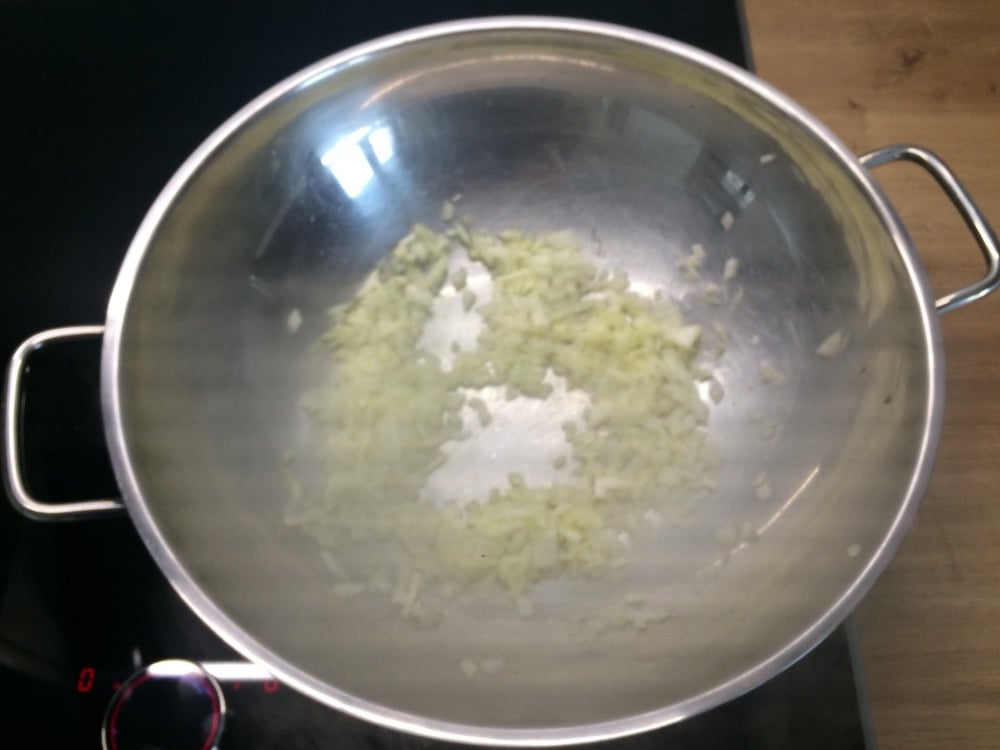
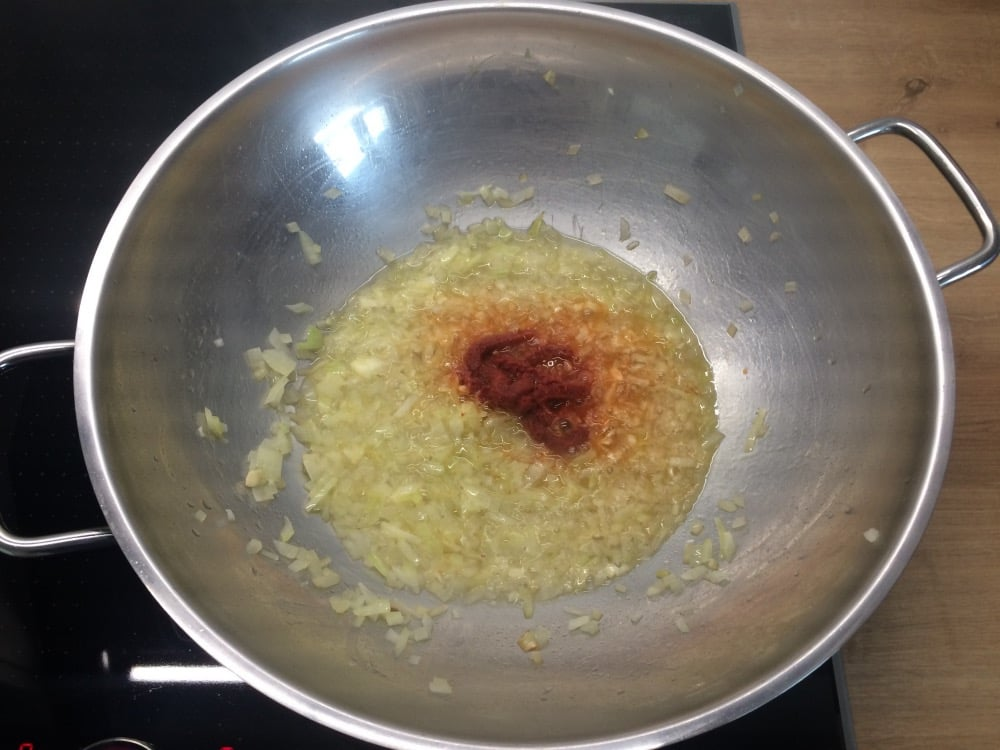
wrote recipe

diff --git a/src/content/recipes/one-pot-pasta-mit-leckerer-tomatensauce.ts b/src/content/recipes/one-pot-pasta-mit-leckerer-tomatensauce.ts
@@ -24,12 +24,15 @@ const ingredients: (RecipeIngredientGroup|RecipeIngredient)[] = [
     amount: 1,
     unit: INGREDIENT_UNITS.stueck,
     ingredient: INGREDIENTS.zwiebel,
+    preparation: INGREDIENT_PREPARATIONS.gewuerfelt,
   },
   {
     isGroup: false,
     amount: 2,
     unit: INGREDIENT_UNITS.stueck,
     ingredient: INGREDIENTS.knoblauchzehe,
+    preparation: INGREDIENT_PREPARATIONS.gewuerfelt,
+    description: "(optional)",
   },
   {
     isGroup: false,
@@ -39,17 +42,123 @@ const ingredients: (RecipeIngredientGroup|RecipeIngredient)[] = [
   },
   {
     isGroup: false,
-    amount: 10,
+    amount: 20,
     unit: INGREDIENT_UNITS.stueck,
     ingredient: INGREDIENTS.kirschtomaten,
     preparation: INGREDIENT_PREPARATIONS.halbiert,
+    description: "(ca. 150 g)",
   },
   {
     isGroup: false,
-    amount: 1.5,
-    unit: INGREDIENT_UNITS.liter,
+    amount: 10,
+    unit: INGREDIENT_UNITS.stueck,
+    ingredient: INGREDIENTS.champignons,
+    preparation: INGREDIENT_PREPARATIONS.geviertelt,
+  },
+  {
+    isGroup: false,
+    amount: 1,
+    unit: INGREDIENT_UNITS.stueck,
+    ingredient: INGREDIENTS.paprika,
+    preparation: INGREDIENT_PREPARATIONS.gewuerfelt,
+  },
+  {
+    isGroup: false,
+    amount: 0.5,
+    unit: INGREDIENT_UNITS.stueck,
+    ingredient: INGREDIENTS.zucchini,
+    preparation: INGREDIENT_PREPARATIONS.gewuerfelt,
+  },
+  {
+    isGroup: false,
+    amount: 2,
+    unit: INGREDIENT_UNITS.el,
+    ingredient: INGREDIENTS.olivenoel,
+    description: "(zum Anbraten)",
+  },
+  {
+    isGroup: false,
+    amount: 50,
+    unit: INGREDIENT_UNITS.ml,
+    ingredient: INGREDIENTS.weisswein,
+    description: "(optional)",
+  },
+  {
+    isGroup: false,
+    amount: 1,
+    unit: INGREDIENT_UNITS.el,
+    ingredient: INGREDIENTS.tomatenmark,
+  },
+  {
+    isGroup: false,
+    amount: 800,
+    unit: INGREDIENT_UNITS.milliliter,
     ingredient: INGREDIENTS.wasser,
   },
+  {
+    isGroup: false,
+    amount: 1,
+    unit: INGREDIENT_UNITS.el,
+    ingredient: INGREDIENTS.zucker,
+  },
+  {
+    isGroup: false,
+    amount: 3,
+    unit: INGREDIENT_UNITS.tl,
+    ingredient: INGREDIENTS.salz,
+  },
+  {
+    isGroup: false,
+    amount: 2,
+    unit: INGREDIENT_UNITS.tl,
+    ingredient: INGREDIENTS.gemuesebruehenpulver,
+  },
+  {
+    isGroup: false,
+    amount: 1,
+    unit: INGREDIENT_UNITS.el,
+    ingredient: INGREDIENTS.paprikapulver,
+  },
+  {
+    isGroup: false,
+    amount: 80,
+    unit: INGREDIENT_UNITS.gramm,
+    ingredient: INGREDIENTS.parmesan,
+  },
+  {
+    isGroup: false,
+    amountFrom: 1,
+    amountTo: 2,
+    unit: INGREDIENT_UNITS.el,
+    ingredient: INGREDIENTS.essig,
+    description: "(z. B. weißer Balsamico)",
+  },
+  {
+    isGroup: false,
+    amount: 1,
+    unit: INGREDIENT_UNITS.prise,
+    ingredient: INGREDIENTS.pfeffer,
+  },
+  {
+    isGroup: false,
+    amount: 1,
+    unit: INGREDIENT_UNITS.el,
+    ingredient: INGREDIENTS.oregano,
+    description: "(optional)",
+  },
+
+  {
+    isGroup: true,
+    title: "Zum Anrichten",
+    ingredients: [
+      {
+        isGroup: false,
+        unit: INGREDIENT_UNITS.einige,
+        ingredient: INGREDIENTS.basilikumblaetter,
+        preparation: INGREDIENT_PREPARATIONS.gezupft,
+      },
+    ],
+  }
 ];
 
 const steps: (RecipeStepGroup|RecipeStep)[] = [

diff --git a/src/content/ingredients/Ingredients.ts b/src/content/ingredients/Ingredients.ts
@@ -5,9 +5,25 @@ export const INGREDIENTS: Ingredients = {
     id: "salz",
     name: "Salz",
   },
+  pfeffer: {
+    id: "pfeffer",
+    name: "Pfeffer",
+  },
+  oregano: {
+    id: "oregano",
+    name: "Oregano",
+  },
   wasser: {
     id: "wasser",
     name: "Wasser",
+  },
+  parmesan: {
+    id: "parmesan",
+    name: "Parmesan",
+  },
+  basilikumblaetter: {
+    id: "basilikumblaetter",
+    name: "Basilikumblätter",
   },
   mehl: {
     id: "mehl",
@@ -63,6 +79,10 @@ export const INGREDIENTS: Ingredients = {
     id: "butter",
     name: "Butter",
   },
+  olivenoel: {
+    id: "olivenoel",
+    name: "Olivenöl",
+  },
   zimt: {
     id: "zimt",
     name: "Zimt",
@@ -71,10 +91,27 @@ export const INGREDIENTS: Ingredients = {
     id: "zitronenabrieb",
     name: "Abrieb einer unbehandelten Zitrone",
   },
+  weisswein: {
+    id: "weisswein",
+    name: "Weißwein",
+  },
+  gemuesebruehenpulver: {
+    id: "gemuesebruehenpulver",
+    name: "Gemüsebrühenpulver",
+  },
+  paprikapulver: {
+    id: "paprikapulver",
+    name: "Paprikapulver",
+  },
   zwiebel: {
     id: "zwiebel",
     name: "Zwiebel",
     namePlural: "Zwiebeln",
+  },
+  paprika: {
+    id: "paprika",
+    name: "Paprika",
+    namePlural: "Paprikas",
   },
   knoblauchzehe: {
     id: "knoblauchzehe",
@@ -88,6 +125,14 @@ export const INGREDIENTS: Ingredients = {
   kirschtomaten: {
     id: "kirschtomaten",
     name: "Kirschtomaten",
+  },
+  champignons: {
+    id: "champignons",
+    name: "Champignons",
+  },
+  zucchini: {
+    id: "zucchini",
+    name: "Zucchini",
   },
   tomatenkonserve_stueckig: {
     id: "tomatenkonserve_stueckig",

diff --git a/src/pages/one-pot-pasta-mit-leckerer-tomatensauce.vue b/src/pages/one-pot-pasta-mit-leckerer-tomatensauce.vue
@@ -22,6 +22,13 @@
             Pot...
           </p>
 
+          <ArticleImageComponent
+            src="/images/articles/one-pot-pasta-mit-leckerer-tomatensauce/one-pot-pasta.jpg"
+            alt="One Pot Pasta"
+          />
+
+          <h2>Die einzelnen Schritte im Überblick</h2>
+
           <el-row>
             <el-col :xl="xl" :lg="lg" :md="md" :sm="sm" :xs="xs">
               <vueper-slides :slide-ratio="0.8">
@@ -87,6 +94,7 @@
     private ratings: RatingResponse;
 
     private stepPhotos = [
+      "/images/articles/one-pot-pasta-mit-leckerer-tomatensauce/schritte/0.jpeg",
       "/images/articles/one-pot-pasta-mit-leckerer-tomatensauce/schritte/1.jpeg",
       "/images/articles/one-pot-pasta-mit-leckerer-tomatensauce/schritte/2.jpeg",
       "/images/articles/one-pot-pasta-mit-leckerer-tomatensauce/schritte/3.jpeg",
@@ -94,7 +102,6 @@
       "/images/articles/one-pot-pasta-mit-leckerer-tomatensauce/schritte/5.jpeg",
       "/images/articles/one-pot-pasta-mit-leckerer-tomatensauce/schritte/6.jpeg",
       "/images/articles/one-pot-pasta-mit-leckerer-tomatensauce/schritte/7.jpeg",
-      "/images/articles/one-pot-pasta-mit-leckerer-tomatensauce/schritte/8.jpeg",
     ];
 
     constructor() {

diff --git a/src/content/ingredients/IngredientPreparations.ts b/src/content/ingredients/IngredientPreparations.ts
@@ -9,4 +9,12 @@ export const INGREDIENT_PREPARATIONS: IngredientPreparations = {
     id: "halbiert",
     name: "halbiert",
   },
+  geviertelt: {
+    id: "geviertelt",
+    name: "geviertelt",
+  },
+  gezupft: {
+    id: "gezupft",
+    name: "Gezupft",
+  },
 }

diff --git a/src/utils/RecipeUtil.ts b/src/utils/RecipeUtil.ts
@@ -67,6 +67,7 @@ export default class RecipeUtil {
   }
 
   public static formatUnit(unit: IngredientUnit) {
+    console.log(unit)
     if (unit == null || unit.id == null) {
       return "";
     } else if (unit.namePlural != null) {
